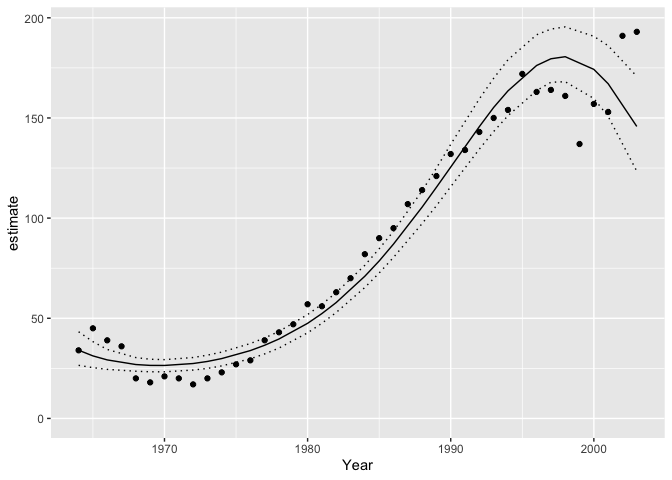
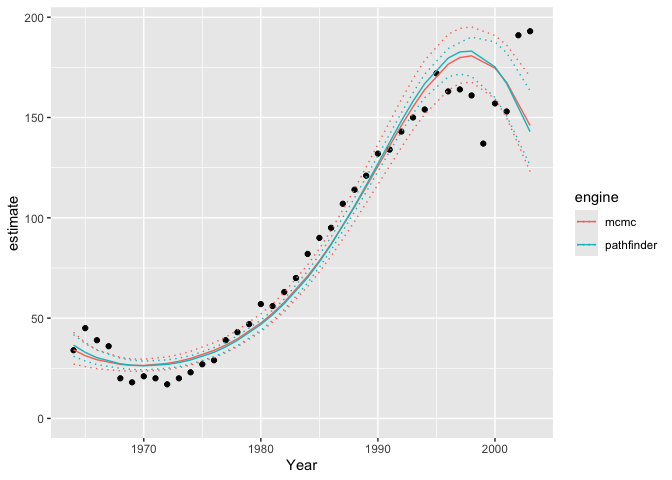
update readme, add pathfinder/mcmc comparison

diff --git a/README.md b/README.md
@@ -1,6 +1,7 @@
+
 <!-- README.md is generated from README.Rmd. Please edit that file -->
 
-# smbr
+# smbr2
 
 <!-- badges: start -->
 
@@ -10,134 +11,168 @@ stable](https://img.shields.io/badge/lifecycle-stable-brightgreen.svg)](https://
 [![Codecov test
 coverage](https://codecov.io/gh/poissonconsulting/smbr/graph/badge.svg)](https://app.codecov.io/gh/poissonconsulting/smbr)
 [![License:
-MIT](https://img.shields.io/badge/License-MIT-green.svg)](https://opensource.org/licenses/MIT)
+MIT](https://img.shields.io/badge/License-MIT-green.svg)](https://opensource.org/license/mit/)
 <!-- badges: end -->
 
 ## Introduction
 
-`smbr` (pronounced simber) is an R package to facilitate analyses using
-[`STAN`](http://mc-stan.org). It is part of the
-[embr](https://github.com/poissonconsulting/embr) family of packages.
+`smbr2` (pronounced simber two) is an R package to facilitate analyses
+using [`STAN`](http://mc-stan.org) with
+[cmdstanr](https://mc-stan.org/cmdstanr/).
+
+`smbr2` was developed as an alternative to
+[smbr](https://github.com/poissonconsulting/smbr). It uses
+[cmdstanr](https://mc-stan.org/cmdstanr/) instead of
+[rstan](https://mc-stan.org/rstan/) as the model-fitting engine.
+
+The motivation for this is that `cmdstanr` is more up-to-date with
+latest developments by the Stan dev team (i.e. via
+[CmdStan](https://mc-stan.org/docs/cmdstan-guide/)). `smbr2` is able to
+incorporate improved functionality such as the new Stan syntax, faster
+parallelization, progress communication with parallelization, pedantic
+Stan model checking, Stan model diagnostics summary, and model fitting
+with alternative engines such as pathfinder, laplace approximation,
+varational inference, and optimization.
+
+Note that some S3 methods for class `smb_model` and `smb_code` are
+imported from `smbr`. `smbr` and `smbr2` are part of the
+[embr](https://github.com/poissonconsulting/embr) family of packages. To
+enable `smbr2` functionality in `embr`, modify the `stan_engine`
+argument in `embr::analyse()`,
+e.g. `embr::analyse(stan_engine = 'cmdstan-mcmc')`.
+
+**The new Stan syntax must be used.** `smbr2` will fail with old Stan
+syntax. If you don’t wish to update an old model, simply leave the
+`stan_engine` argument as the default, which will use `smbr` instead.
 
 ## Demonstration
 
-    library(bauw)
-    library(ggplot2)
-    library(magrittr)
-    library(embr)
-    library(smbr)
+``` r
+library(bauw)
+library(ggplot2)
+library(magrittr)
+library(embr)
+library(smbr2)
+```
 
-    # define model in Stan language
-    model <- model("
-      data {
-          int nAnnual;
-          int nObs;
-          int Annual[nObs];
-          int Pairs[nObs];
-          real Year[nObs];
+``` r
+# define model in Stan language
+model <- model(code = "
+  data {
+      int nAnnual;
+      int nObs;
+      array[nObs] int Annual;
+      array[nObs] int Pairs;
+      array[nObs] real Year;
+  }
+  parameters {
+      vector[nAnnual] bAnnual;
+      real log_sAnnual;
+      real alpha;
+      real beta1;
+      real beta2;
+      real beta3;
+  }
+  transformed parameters {
+    real sAnnual;
+    sAnnual = exp(log_sAnnual);
+  }
+  model {
+      vector[nObs] ePairs;
+      log_sAnnual ~ normal(0, 10);
+      bAnnual ~ normal(0, sAnnual);
+      alpha ~ normal(0, 10);
+      beta1 ~ normal(0, 10);
+      beta2 ~ normal(0, 10);
+      beta3 ~ normal(0, 10);
+      for (i in 1:nObs) {
+        ePairs[i] = exp(alpha + beta1 * Year[i] + beta2 * Year[i]^2 +
+                      beta3 * Year[i]^3 + bAnnual[Annual[i]]);
       }
-      parameters {
-          vector[nAnnual] bAnnual;
-          real log_sAnnual;
-          real alpha;
-          real beta1;
-          real beta2;
-          real beta3;
-      }
-      transformed parameters {
-        real sAnnual;
-        sAnnual = exp(log_sAnnual);
-      }
-      model {
-          vector[nObs] ePairs;
+      target += poisson_lpmf(Pairs | ePairs);
+  }
+")
 
-          log_sAnnual ~ normal(0, 10);
-          bAnnual ~ normal(0, sAnnual);
+# add R code to calculate derived parameters
+model %<>% update_model(new_expr = "
+  for (i in 1:length(Pairs)) {
+    prediction[i] <- exp(alpha + beta1 * Year[i] + beta2 * Year[i]^2 +
+                       beta3 * Year[i]^3 + bAnnual[Annual[i]])
+  }
+")
 
-          alpha ~ normal(0, 10);
-          beta1 ~ normal(0, 10);
-          beta2 ~ normal(0, 10);
-          beta3 ~ normal(0, 10);
+# define data types and center year
+model %<>% update_model(
+  select_data = list(
+    "Pairs" = integer(), "Year*" = integer(),
+    Annual = factor()
+  ),
+  derived = "sAnnual",
+  random_effects = list(bAnnual = "Annual")
+)
 
-          for (i in 1:nObs) {
-            ePairs[i] = exp(alpha + beta1 * Year[i] + beta2 * Year[i]^2 +
-                          beta3 * Year[i]^3 + bAnnual[Annual[i]]);
-          }
-          target += poisson_lpmf(Pairs | ePairs);
-      }")
-    #> Warning: The `x` argument of `model()` character() as of embr 0.0.1.9036.
-    #> ℹ Please use the `code` argument instead.
-    #> ℹ Passing a string to model() is deprecated. Use model(code = ...) or model(mb_code("..."), ...) instead.
-    #> This warning is displayed once every 8 hours.
-    #> Call `lifecycle::last_lifecycle_warnings()` to see where this warning was generated.
+data <- bauw::peregrine
+data$Annual <- factor(data$Year)
 
-    # add R code to calculate derived parameters
-    model %<>% update_model(new_expr = "
-      for (i in 1:length(Pairs)) {
-        prediction[i] <- exp(alpha + beta1 * Year[i] + beta2 * Year[i]^2 +
-                           beta3 * Year[i]^3 + bAnnual[Annual[i]])
-      }
-    ")
+set.seed(42)
 
-    # define data types and center year
-    model %<>% update_model(
-      select_data = list(
-        "Pairs" = integer(), "Year*" = integer(),
-        Annual = factor()
-      ),
-      derived = "sAnnual",
-      random_effects = list(bAnnual = "Annual")
-    )
+# analyse
+analysis <- analyse(model, data = data, seed = 3L, glance = FALSE, stan_engine = "cmdstan-mcmc")
 
-    data <- bauw::peregrine
-    data$Annual <- factor(data$Year)
+# analyse pathfinder
+analysis_path <- analyse(model, data = data, seed = 3L, glance = FALSE, stan_engine = "cmdstan-pathfinder")
 
-    set.seed(42)
+# coefficient table
+coef(analysis, simplify = TRUE)
+#> # A tibble: 5 × 5
+#>   term        estimate   lower   upper svalue
+#>   <term>         <dbl>   <dbl>   <dbl>  <dbl>
+#> 1 alpha         4.26    4.19    4.34   11.6  
+#> 2 beta1         1.19    1.05    1.35   11.6  
+#> 3 beta2        -0.0183 -0.0765  0.0382  0.901
+#> 4 beta3        -0.274  -0.351  -0.202  11.6  
+#> 5 log_sAnnual  -2.23   -2.92   -1.75   11.6
 
-    # analyse
-    analysis <- analyse(model, data = data, seed = 3L, glance = FALSE)
+coef(analysis_path, simplify = TRUE)
+#> # A tibble: 5 × 5
+#>   term        estimate   lower   upper svalue
+#>   <term>         <dbl>   <dbl>   <dbl>  <dbl>
+#> 1 alpha        4.25     4.21    4.30     9.97
+#> 2 beta1        1.24     1.14    1.28     9.97
+#> 3 beta2       -0.00877 -0.0507  0.0139   1.57
+#> 4 beta3       -0.298   -0.321  -0.255    9.97
+#> 5 log_sAnnual -2.23    -2.60   -2.10     9.97
 
-    # coefficient table
-    coef(analysis, simplify = TRUE)
-    #> # A tibble: 5 × 5
-    #>   term        estimate   lower   upper svalue
-    #>   <term>         <dbl>   <dbl>   <dbl>  <dbl>
-    #> 1 alpha         4.26    4.18    4.34    9.97 
-    #> 2 beta1         1.19    1.07    1.36    9.97 
-    #> 3 beta2        -0.0191 -0.0777  0.0393  0.976
-    #> 4 beta3        -0.272  -0.356  -0.208   9.97 
-    #> 5 log_sAnnual  -2.23   -2.87   -1.70    9.97
+# trace plots
+plot(analysis)
+```
 
-    # trace plots
-    plot(analysis)
-    #> Warning in rep(col, length = nchain(x)): partial argument match of 'length' to 'length.out'
-    #> Warning in rep(col, length = nchain(x)): partial argument match of 'length' to 'length.out'
-    #> Warning in rep(col, length = nchain(x)): partial argument match of 'length' to 'length.out'
+![](tools/README-unnamed-chunk-3-1.png)<!-- -->![](tools/README-unnamed-chunk-3-2.png)<!-- -->
 
-![](tools/README-unnamed-chunk-3-1.png)
+``` r
+# make predictions by varying year with other predictors including the random effect of Annual held constant
+year <- predict(analysis, new_data = "Year")
+year_path <- predict(analysis_path, new_data = "Year")
 
-    #> Warning in rep(col, length = nchain(x)): partial argument match of 'length' to 'length.out'
-    #> Warning in rep(col, length = nchain(x)): partial argument match of 'length' to 'length.out'
+years <- dplyr::bind_rows(list("mcmc" = year, "pathfinder" = year_path), .id = "engine")
 
-![](tools/README-unnamed-chunk-3-2.png)
+# plot those predictions
+ggplot(data = years, aes(x = Year, y = estimate)) +
+  geom_point(data = bauw::peregrine, aes(y = Pairs)) +
+  geom_line(aes(color = engine)) +
+  geom_line(aes(y = lower, color = engine), linetype = "dotted") +
+  geom_line(aes(y = upper, color = engine), linetype = "dotted") +
+  expand_limits(y = 0)
+```
 
-    # make predictions by varying year with other predictors including the random effect of Annual held constant
-    year <- predict(analysis, new_data = "Year")
-
-    # plot those predictions
-    ggplot(data = year, aes(x = Year, y = estimate)) +
-      geom_point(data = bauw::peregrine, aes(y = Pairs)) +
-      geom_line() +
-      geom_line(aes(y = lower), linetype = "dotted") +
-      geom_line(aes(y = upper), linetype = "dotted") +
-      expand_limits(y = 0)
-
-![](tools/README-unnamed-chunk-4-1.png)
+![](tools/README-unnamed-chunk-4-1.png)<!-- -->
 
 ## Installation
 
-    # install.packages("devtools")
-    devtools::install_github("poissonconsulting/smbr")
+``` r
+# install.packages("devtools")
+remotes::install_github("poissonconsulting/smbr2")
+```
 
 ## Citation
 
@@ -160,9 +195,9 @@ MIT](https://img.shields.io/badge/License-MIT-green.svg)](https://opensource.org
 ## Contribution
 
 Please report any
-[issues](https://github.com/poissonconsulting/smbr/issues).
+[issues](https://github.com/poissonconsulting/smbr2/issues).
 
-[Pull requests](https://github.com/poissonconsulting/smbr/pulls) are
+[Pull requests](https://github.com/poissonconsulting/smbr2/pulls) are
 always welcome.
 
 ## Code of Conduct
